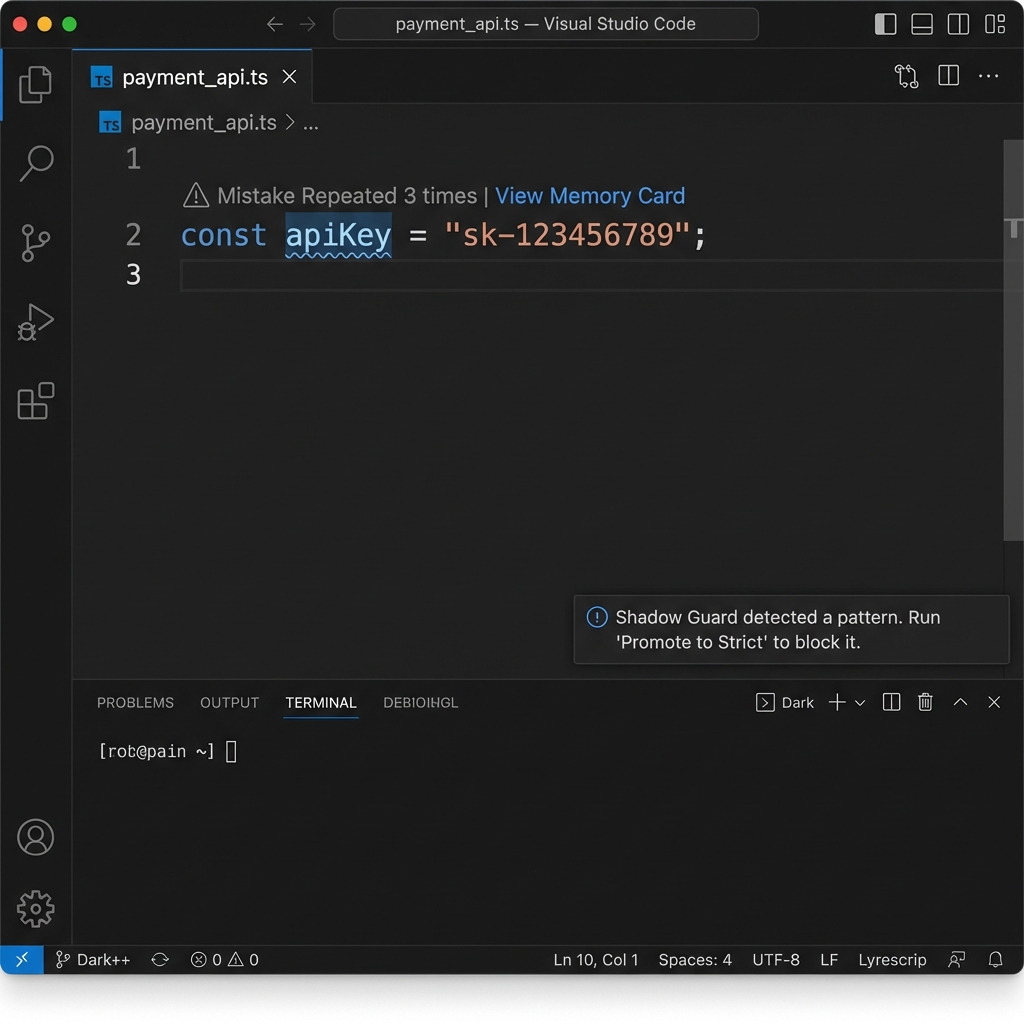
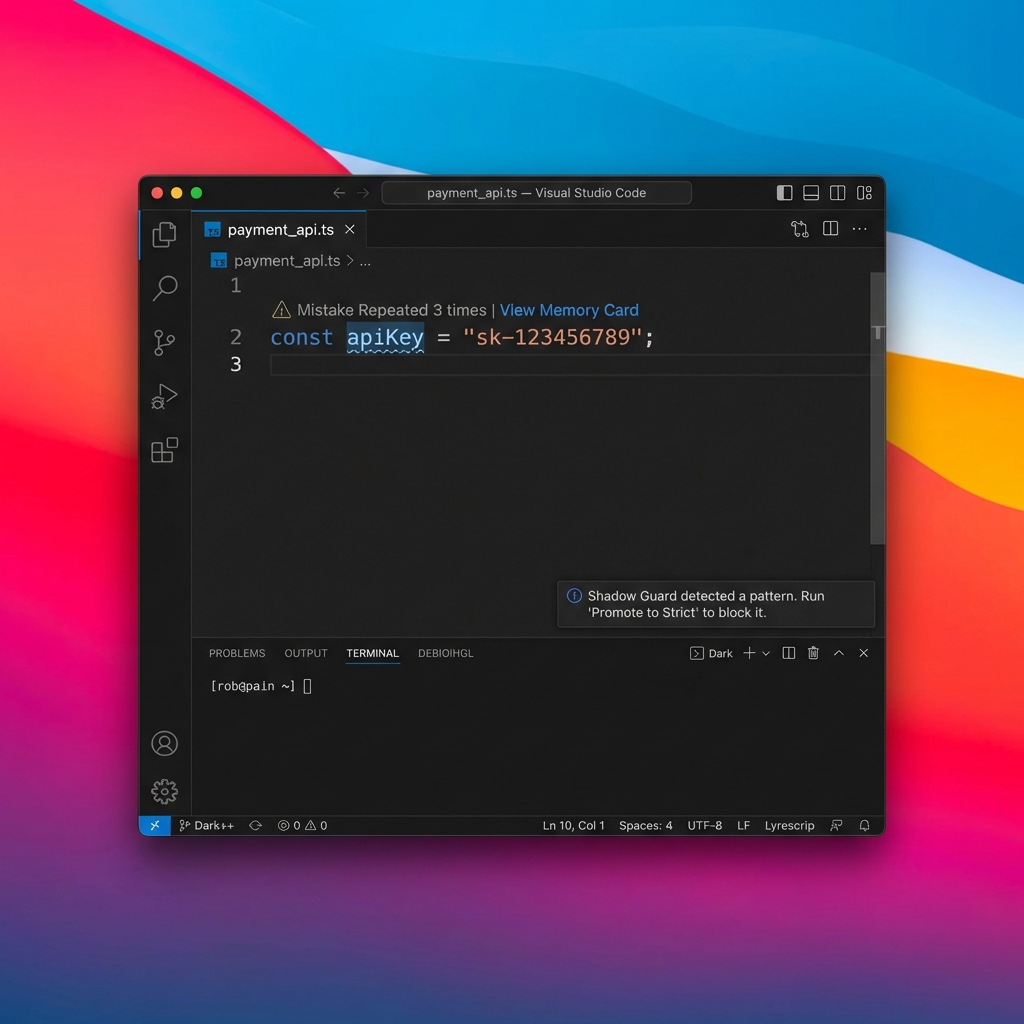
Update marketplace assets with new mockup and domain links

diff --git a/README.md b/README.md
@@ -58,6 +58,6 @@ Engram is designed to be hacked.
 *   **Open Source**: Contribute your best patterns to our [GitHub Repo](https://github.com/kwstx/Engram).
 
 ## Support
-*   [Website](https://use-engram.vercel.app)
+*   [Website](https://www.useengram.com/)
 *   [Repository](https://github.com/kwstx/Engram)
-*   [Privacy Policy](https://use-engram.vercel.app/privacy.html)
+*   [Privacy Policy](https://www.useengram.com/privacy.html)
